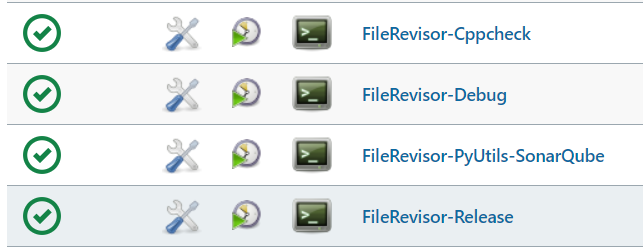
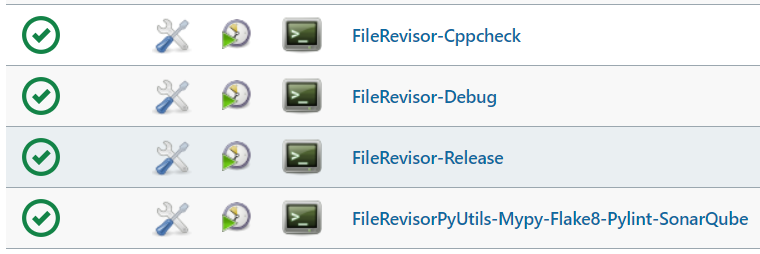
Update Windows Jenkins jobs screenshot

diff --git a/README.md b/README.md
@@ -25,7 +25,7 @@ FileRevisor is rigorously unit tested with <a href="https://github.com/NeilJusti
 * [FileRevisor Code Structure As It Appears In Visual Studio Code On Linux](#filerevisor-code-structure-as-it-appears-in-visual-studio-code-on-linux)
 * [FileRevisor Code Structure As It Appears In Visual Studio 2019 On Windows](#filerevisor-code-structure-as-it-appears-in-visual-studio-2019-on-windows)
 * [Linux Jenkins Jobs Which Build, Cppcheck, clang-tidy, AddressSanitize, UndefinedBehaviorSanitize, and ThreadSanitize FileRevisor's C++ Code and SonarQube Scan FileRevisor's Python Code](#linux-jenkins-jobs-which-build-cppcheck-clang-tidy-addresssanitize-undefinedbehaviorsanitize-and-threadsanitize-filerevisors-c-code-and-sonarqube-scan-filerevisors-python-code)
-* [Windows Jenkins Jobs Which Build And Cppcheck FileRevisor's C++ Code and SonarQube Scan FileRevisor's Python Code](#windows-jenkins-jobs-which-build-and-cppcheck-filerevisors-c-code-and-sonarqube-scan-filerevisors-python-code)
+* [Windows Jenkins Jobs Which Build And Cppcheck FileRevisor's C++ Code and Mypy-Flake8-Pylint-SonarQube Scan FileRevisor's Python Code](#windows-jenkins-jobs-which-build-and-cppcheck-filerevisors-c-code-and-mypy-flake8-pylint-sonarqube-filerevisors-python-code)
 * [How To Build Binary filerevisor On Linux With Clang](#how-to-build-binary-filerevisor-on-linux-with-clang)
 * [How To Build Executable FileRevisor.exe On Windows With Visual Studio 2019](#how-to-build-executable-filerevisorexe-on-windows-with-visual-studio-2019)
 * [FileRevisor Roadmap](#filerevisor-roadmap)
@@ -168,7 +168,7 @@ A Jenkins Blue Ocean build pipeline builds the following FileRevisor Jenkins job
 
 ![Linux FileRevisor Jenkins Jobs](Screenshots/Linux/LinuxJenkinsJobs.png)
 
-### Windows Jenkins Jobs Which Build And Cppcheck FileRevisor's C++ Code and SonarQube Scan FileRevisor's Python Code
+### Windows Jenkins Jobs Which Build And Cppcheck FileRevisor's C++ Code and Mypy-Flake8-Pylint-SonarQube FileRevisor's Python Code
 
 A Jenkins Blue Ocean build pipeline builds the following FileRevisor Jenkins jobs on Windows 10 with Visual Studio 2019:
 
